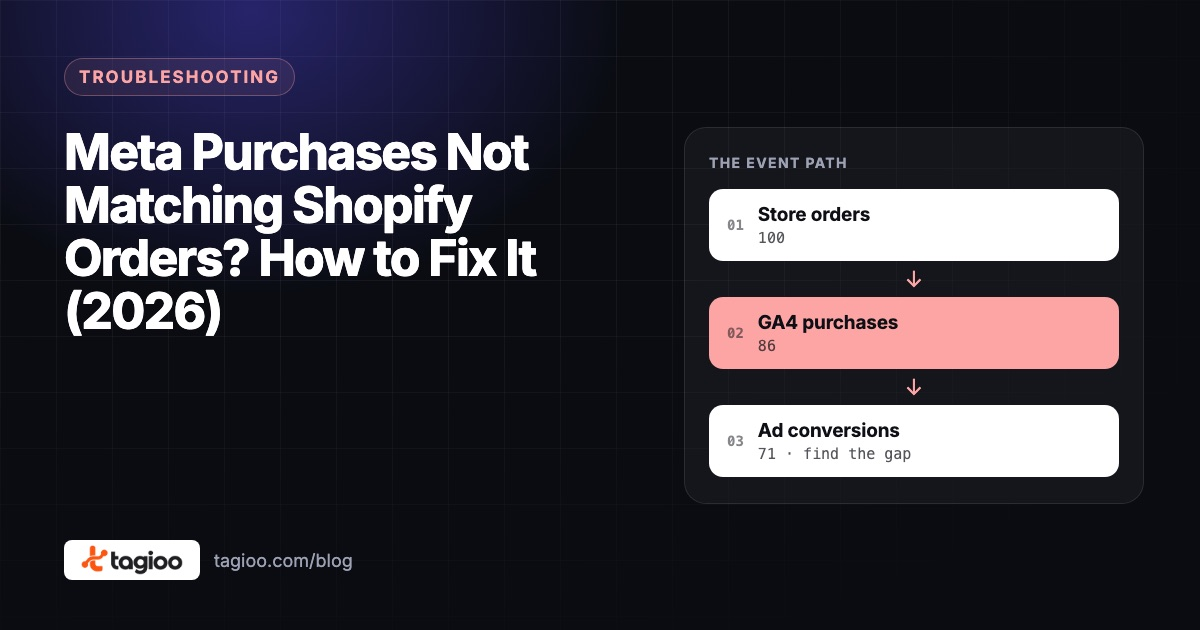
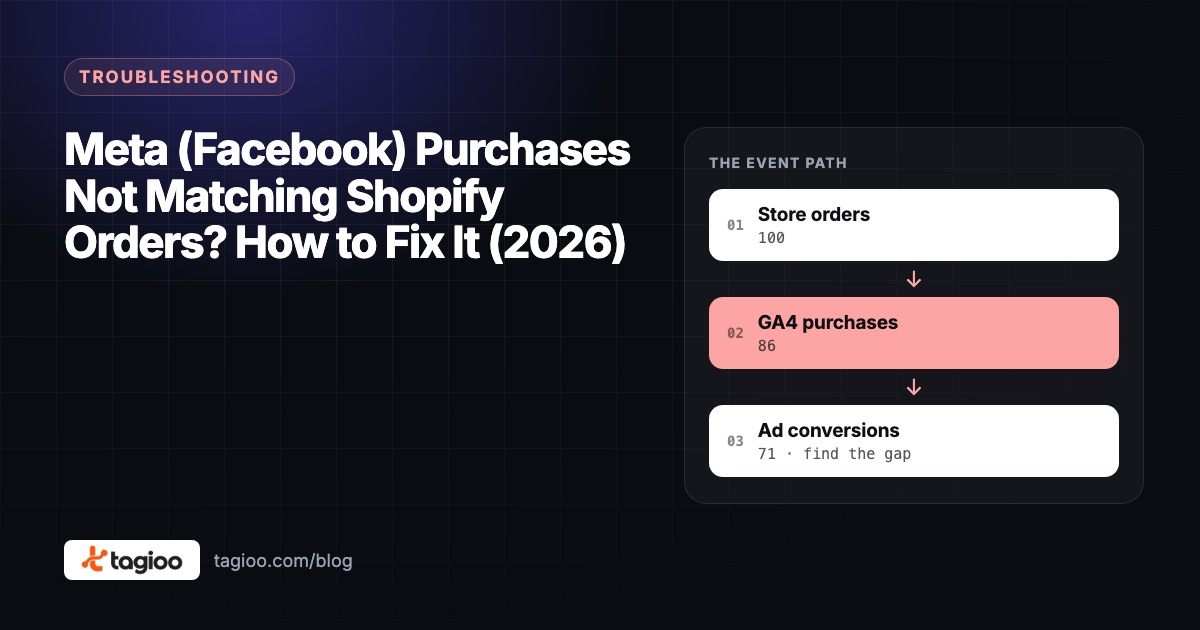
docs(blog): target Facebook wording in Meta vs Shopify post
Merge the "Shopify and Facebook purchase numbers" brief into the live
post instead of a second post on the same intent (would compete for
the same searches).

- Facebook (Meta) title, SEO title and description; names note
- 10-minute test: Pixel Helper / tracking checker and Event Match
  Quality steps
- Safari/iPhone row in the can't-fix table, with WebKit and Apple
  sources
- closing CTA to the tracking checker and Free plan
- FAQs: match exactly, iPhones, developer (8 total)
- cover re-rendered for the new title

Changed region(s): [[0.0308, 0.2111, 0.5242, 0.5429]]

diff --git a/docs/marketing/blog/meta-purchases-not-matching-shopify.md b/docs/marketing/blog/meta-purchases-not-matching-shopify.md
@@ -1,7 +1,7 @@
 ---
-title: "Meta Purchases Not Matching Shopify Orders? How to Fix It (2026)"
-seoTitle: "Meta Purchases Not Matching Shopify? How to Fix It (2026)"
-description: "Meta purchases not matching Shopify orders? Find out which problem you have in 10 minutes, then fix it step by step: lost events, duplicates or attribution."
+title: "Meta (Facebook) Purchases Not Matching Shopify Orders? How to Fix It (2026)"
+seoTitle: "Facebook (Meta) Purchases Not Matching Shopify? Fix It"
+description: "Facebook (Meta) purchases not matching Shopify orders? Find which problem you have in 10 minutes, then fix lost purchases, duplicates or attribution."
 category: Troubleshooting
 keyword: meta purchases not matching shopify
 published: 2026-10-29
@@ -10,9 +10,9 @@ summary: "A 10-minute test that shows which gap you have, then step-by-step fixe
 related: conversion-tracking-discrepancies, meta-capi-deduplication-checklist, shopify-server-side-tracking
 featured: false
 ---
-# Meta Purchases Not Matching Shopify Orders? How to Fix It (2026)
+# Meta (Facebook) Purchases Not Matching Shopify Orders? How to Fix It (2026)
 
-Shopify shows 86 orders last week. Meta Ads Manager shows 61.
+Shopify shows 86 orders last week. Facebook Ads Manager shows 61.
 
 Then you look at Monday, and it flips. Facebook says 3 sales. Shopify says zero.
 
@@ -25,6 +25,8 @@ Let's find the problem first, then fix it.
 Each of those three problems has its own fix. Most take a few minutes in your Shopify or Meta settings.
 
 For lost purchases, the lasting fix is **server-side tracking**: your purchases reach Meta from a server on your own domain, not only from the shopper's browser.
+
+A quick note on names: Facebook's ad tools now sit under the Meta brand. Facebook Ads Manager is Meta Ads Manager, and the Facebook pixel is the Meta Pixel. This guide uses the Meta names you'll see on screen.
 
 > **Key takeaways**
 > - Don't start with Ads Manager. Compare **Events Manager** with **Shopify Online Store orders**. That one number tells you which problem you have.
@@ -60,6 +62,8 @@ The first and third are almost never close. That's an **attribution** question: 
 2. **Get your Shopify number.** In Shopify Analytics, open a sales report and filter it to the **Online Store** sales channel. Count orders, not sales.
 3. **Get your Meta number from Events Manager.** Open your dataset, then the **Purchase** event on the Overview. Look at the **connection method** breakdown, browser and server, and write down each one.
 4. **Compare each source with your orders on its own.** Don't use the total. Meta counts events on the Overview *before* deduplication ([Meta's verification guide](https://developers.facebook.com/docs/marketing-api/conversions-api/verifying-setup)), so with the Pixel and the Conversions API both on, one order shows up twice.
+5. **Look for a second Pixel.** Open your store in Chrome with Meta's free [Pixel Helper](https://chromewebstore.google.com/detail/meta-pixel-helper/fdgfkebogiimcoedlicjlajpkdmockpc) extension, or run the free [Website Tracking Checker](/website-tracking-checker). Two Pixel IDs, or one Pixel loading twice, usually means duplicate purchases.
+6. **Note your Event Match Quality.** If you send server events, Events Manager shows an **Event Match Quality** score for Purchase. It rates how well the customer details sent with each purchase, like email and phone, let Meta match it to a person. A low score means Meta can credit fewer sales to your ads.
 
 Now read the result:
 
@@ -205,6 +209,7 @@ Some of the gap stays even when tracking works well:
 | Orders that didn't come from Meta ads | Email, Google, direct and returning customers all create orders. Ads Manager only shows sales it credits to an ad |
 | Sales outside the attribution window | Meta's default credits a purchase within 7 days of a link click, or 1 day after a view or engagement ([Jon Loomer](https://www.jonloomer.com/meta-ads-attribution-2026/)) |
 | Purchases Meta can't tie to a person | Different device, or not enough customer details. Maximum data sharing and server-side tracking with customer details help, but never close this fully |
+| iPhone privacy features | Safari caps cookies set by scripts at 7 days ([WebKit](https://webkit.org/blog/8613/intelligent-tracking-prevention-2-1/)), and Link Tracking Protection removes click IDs from links in Private Browsing, Mail and Messages ([Apple](https://www.apple.com/newsroom/2023/06/apple-announces-powerful-new-privacy-and-security-features/)). Customer details sent from a server help Meta match some of these buyers, not all |
 | Declined consent | Correct behavior. Leave it alone |
 | Recent days | Meta files purchases under the ad impression date, so last week keeps filling in ([Jon Loomer](https://www.jonloomer.com/are-ads-manager-results-too-good-to-be-true/)) |
 
@@ -244,7 +249,7 @@ Here's how that path maps to the problems in this guide:
 
 | Problem | Browser Pixel only | With server-side tracking |
 |---|---|---|
-| Ad blockers and browser privacy | Requests to Meta's domain are on most blocklists | The browser talks to your own subdomain, and the server-to-Meta step can't be blocked by a browser |
+| Ad blockers and browser privacy, including Safari on iPhone | Requests to Meta's domain are on most blocklists | The browser talks to your own subdomain, and the server-to-Meta step can't be blocked by a browser |
 | Shopify pausing a pixel | Marketing app pixels default to Optimized and can be paused | Shopify describes Optimized as a setting for app pixels. A Custom Pixel isn't described as covered ([Shopify's app pixels help](https://help.shopify.com/en/manual/promoting-marketing/pixels/app-pixels)) |
 | Weak match quality | Meta gets only what the browser can send | The server sends the customer's email, phone and address with the purchase |
 | Duplicate purchases | Each tool sends its own Purchase with its own ID | One owner. Browser and server copies share the order ID as event ID, and Meta merges them |
@@ -492,6 +497,8 @@ All three. Each one, for its own job.
 
 What you shouldn't do is treat Ads Manager as your order count, or Shopify's last-click report as the full value of your Meta ads. Both ignore part of the picture.
 
+Not sure where your store stands? Start with the free [Website Tracking Checker](/website-tracking-checker). It shows whether your Meta Pixel and other tags are browser-only or server-side, and flags duplicate tags. When you're ready, Tagioo's [Free plan](/signup) covers 15,000 events per 30 days, with no card.
+
 ## Sources and further reading
 
 - [Shopify Help: Facebook data sharing](https://help.shopify.com/en/manual/promoting-marketing/analyze-marketing/meta-data-sharing): what Standard, Enhanced and Maximum send, where to change the level, and the purchase value definition
@@ -521,12 +528,6 @@ Events Manager's Overview counts events before deduplication. If the Pixel and t
 
 Compare each connection method separately. If a *single* method shows double, you have two senders: see the fix for duplicates above.
 
-### Does Shopify's Maximum data sharing fix the mismatch?
-
-It fixes part of it. Maximum adds the Conversions API, so purchases still reach Meta when a browser blocks the Pixel.
-
-It doesn't change attribution. Meta and Shopify will still credit sales differently, so Ads Manager won't match your order count.
-
 ### Does server-side tracking fix Meta purchases not matching Shopify?
 
 It fixes the tracking side: purchases lost to ad blockers, browser privacy and failed pages, plus duplicates, once one setup owns Purchase. Purchases go to Meta from your own subdomain, deduplicated by order ID.
@@ -539,11 +540,23 @@ Usually because the ad links carry no UTM parameters, so Shopify can't tell wher
 
 Add UTM parameters under **Tracking → URL parameters** in each ad, then check a test order's conversion details.
 
-### How much difference between Shopify and Meta purchases is normal?
+### Will Shopify and Facebook purchase numbers ever match exactly?
 
-There's no official number from Meta or Shopify. It depends on how much of your business comes from Meta ads.
+No, and they shouldn't. Shopify counts every order from every channel. Facebook only counts purchases it can link to an ad, inside its attribution window, from people who allowed tracking.
 
-Track two ratios every week instead: Purchase events ÷ Online Store orders, and Ads Manager purchases ÷ Online Store orders. A steady gap is normal. A sudden drop means something changed.
+There's no official "normal" gap from Meta or Shopify. Track two ratios every week instead: Purchase events ÷ Online Store orders, and Ads Manager purchases ÷ Online Store orders. A steady gap is normal. A sudden drop means something changed.
+
+### Do iPhones make Facebook miss Shopify purchases?
+
+Partly. Safari limits how long tracking cookies last and removes Meta's click ID from some links, so the browser Pixel loses track of some buyers.
+
+Sending purchases from a server with customer details, through Shopify's Maximum data sharing or a server-side setup, helps Meta match more of them. Some will always stay unmatched.
+
+### Do I need a developer to fix this?
+
+Usually not. Most fixes in this guide are settings in Shopify and Meta.
+
+A managed server-side setup like Tagioo needs no coding on Shopify either: you import ready-made containers and paste a Custom Pixel, in about 10 minutes. If you get stuck, email hello@tagioo.com with your store URL and the Tagioo team will help you finish.
 
 ### Should I use Ads Manager or Shopify to calculate ROAS?
 

diff --git a/CURRENT_WORK.md b/CURRENT_WORK.md
@@ -2,6 +2,23 @@
 
 Living status doc. Update after meaningful progress. Last updated: 2026-10-29.
 
+## 2026-10-29 — Facebook wording merged into meta-purchases-not-matching-shopify (branch, NOT deployed)
+
+- Owner brief asked for a new post "Why Shopify and Facebook Show Different Purchase Numbers".
+  Owner chose to MERGE into the live Meta post instead (same intent → would cannibalize) and to
+  leave WhatsApp out (site shows WhatsApp to BD visitors only).
+- Branch `blog/facebook-shopify-merge`: title/H1 "Meta (Facebook) Purchases Not Matching Shopify
+  Orders? How to Fix It (2026)", seoTitle "Facebook (Meta) Purchases Not Matching Shopify? Fix
+  It" (54), Facebook description; names note; 10-minute test steps 5-6 (Pixel Helper / Website
+  Tracking Checker, Event Match Quality); Safari/iPhone row in the can't-fix table (WebKit 7-day
+  cap + Apple Link Tracking Protection); closing checker + Free plan CTA; FAQs now 8 (+ match
+  exactly, iPhones, developer; − normal-gap, Maximum data sharing). Cover re-rendered. Slug/URL
+  unchanged. Checker 0/0, links verified.
+- `npm run test:paddle` has 1 failure ("activation, replay, renewal...") that also fails on a
+  clean HEAD worktree — pre-existing, unrelated.
+- To deploy: push branch, VPS `git checkout <branch> -- docs/marketing/blog/meta-purchases-not-matching-shopify.md
+  public/assets/blog/covers` + `node scripts/build-blog.mjs`.
+
 ## 2026-10-29 — Blog share buttons — DEPLOYED
 
 - `scripts/build-blog.mjs`: `shareBar(post, compact)` renders plain share links, no third-party
